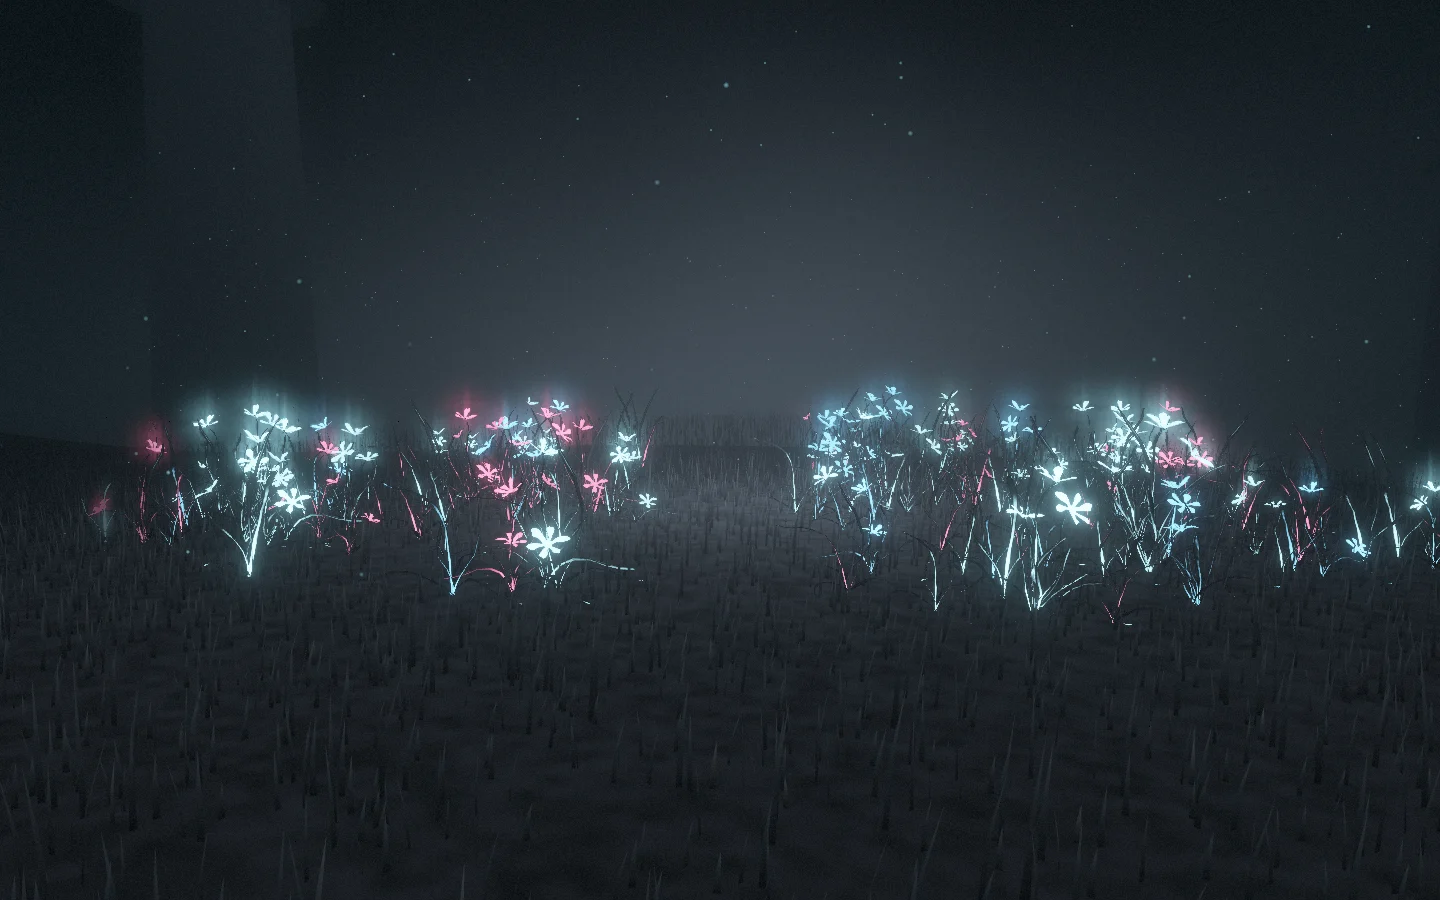
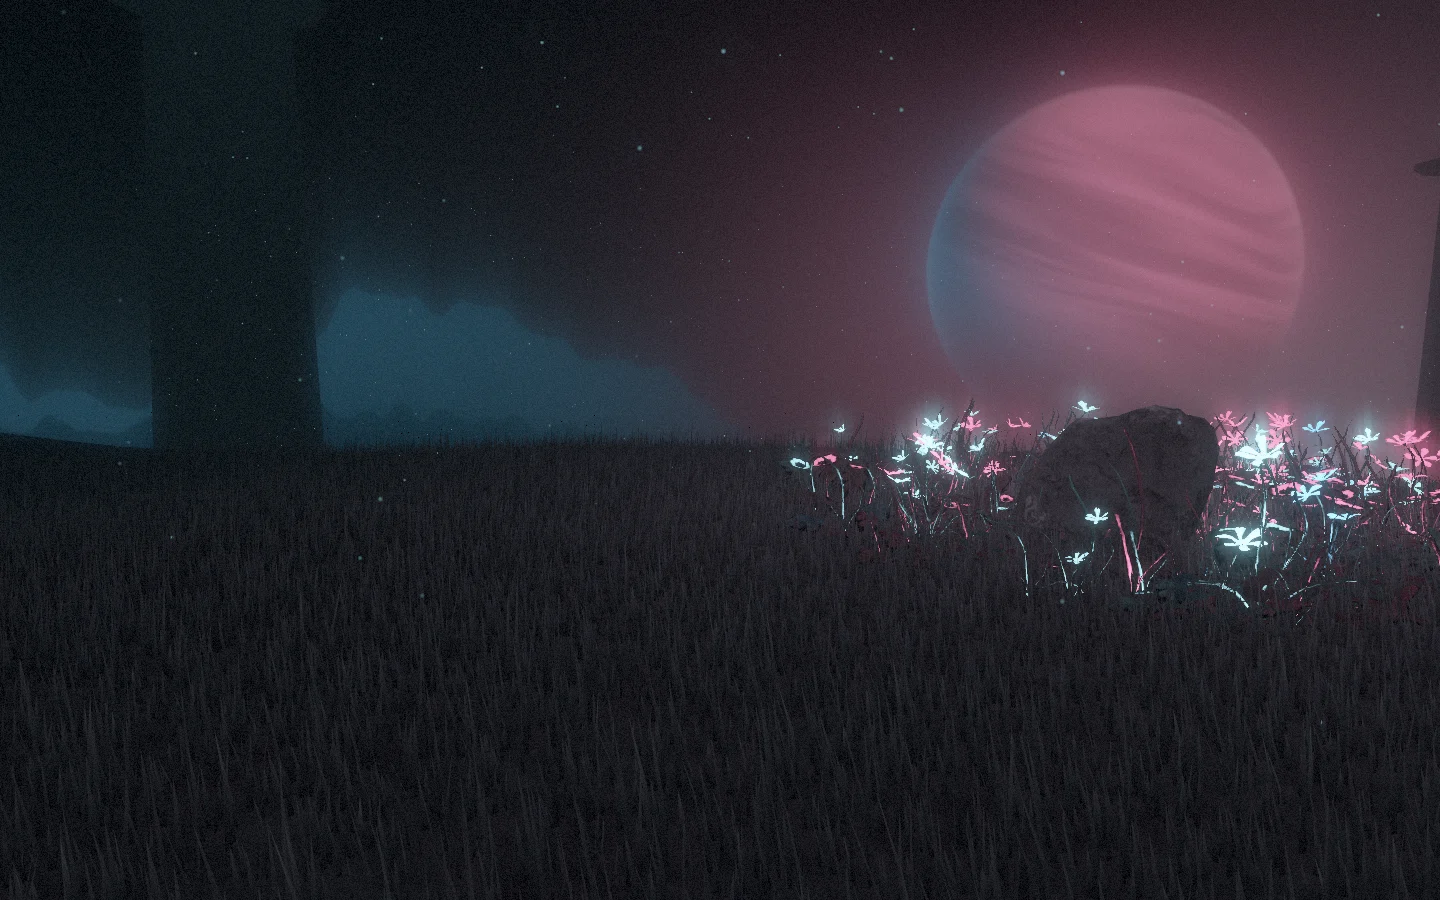
Fecha a rodada das placas: planeta com luz rosa e sombra azul, vidro mais barato, posters regerados e relatório

diff --git a/lib/scene/shaders/land.ts b/lib/scene/shaders/land.ts
@@ -84,20 +84,25 @@ void main() {
   color += pale * 0.12 * exp(-max(dir.y + 0.14, 0.0) * 7.0) * smoothstep(-0.12, 0.18, toward) * uAstro;
 
   // O planeta: uma esfera grande e distante, meio encoberta pelo horizonte.
-  // Sóbrio, das cores da indústria; a única coisa fria e clara nele é o fio de
-  // atmosfera na borda. A base some na névoa, como tudo que está longe.
+  // Duas luzes, as mesmas do céu em volta: o rosa de um lado e, do outro, o
+  // azul das serras e do fundo, que enche a sombra em vez de deixá-la chapada.
+  // A base some na névoa, como tudo que está longe.
   float away = acos(clamp(dot(dir, uAstroDir), -1.0, 1.0));
   float radius = uPlanet.y;
-  if (uPlanet.x > 0.001 && away < radius * 1.5) {
-    float disc = 1.0 - smoothstep(radius - 0.002, radius + 0.002, away);
-    // A normal da esfera vista de frente, para a luz vir de um lado só.
+  if (uPlanet.x > 0.001 && away < radius * 2.0) {
+    float disc = 1.0 - smoothstep(radius - 0.003, radius + 0.003, away);
+    // A normal da esfera vista de frente.
     vec3 side = normalize(cross(uAstroDir, vec3(0.0, 1.0, 0.0)));
     vec3 top = cross(side, uAstroDir);
     vec2 p = vec2(dot(dir, side), dot(dir, top)) / sin(radius);
     vec3 normal = vec3(p, sqrt(max(1.0 - dot(p, p), 0.0)));
-    vec3 sun = normalize(vec3(-0.72, 0.5, 0.3));
-    // O terminador: uma linha estreita entre o dia e a noite.
-    float lit = smoothstep(-0.03, 0.09, dot(normal, sun));
+    // A luz rosa vem de cima, à direita; a azul, de baixo, à esquerda. Nenhuma
+    // tem linha de sombra: uma vai cedendo para a outra ao longo da esfera.
+    vec3 sun = normalize(vec3(0.62, 0.55, 0.56));
+    vec3 sky = normalize(vec3(-0.8, -0.3, 0.52));
+    float lit = smoothstep(-0.3, 0.85, dot(normal, sun));
+    float fill = smoothstep(-0.2, 1.0, dot(normal, sky));
+    vec3 blue = uCyan * vec3(0.5, 0.78, 1.05);
 
     // As faixas: ruído esticado ao longo dos paralelos, num eixo inclinado,
     // girando tão devagar que só se nota de uma visita para a outra.
@@ -106,20 +111,24 @@ void main() {
     float bend = sceneNoise(vec3(lon * 1.3, q.y * 3.0, 7.0)) - 0.5;
     float bands = sceneNoise(vec3(lon * 0.5 + 4.0, (q.y + bend * 0.1) * 9.0, 2.0)) * 0.65
       + sceneNoise(vec3(lon * 1.7, (q.y + bend * 0.16) * 24.0, 5.0)) * 0.35;
+    float tone = 0.45 + 0.55 * smoothstep(0.2, 0.8, bands);
 
-    vec3 tone = mix(uDeep, mix(uTeal, uMist, 0.4), smoothstep(0.25, 0.8, bands));
-    vec3 day = tone * (0.28 + 0.44 * max(dot(normal, sun), 0.0)) * (0.55 + 0.45 * normal.z);
-    vec3 body = mix(color * 0.55, day, lit);
-    // A atmosfera: um fio frio na borda, mais claro do lado do dia.
-    vec3 cold = mix(uCyan, uMist, 0.55);
-    body += cold * 0.3 * pow(1.0 - normal.z, 5.0) * (0.1 + 0.9 * lit);
+    // A esfera escurece para a borda: é o que a faz ter volume.
+    float round = 0.5 + 0.5 * normal.z;
+    vec3 body = mix(uRose, uMist, 0.12) * tone * lit * round;
+    body += blue * (0.1 + 0.16 * tone) * fill * (1.0 - 0.75 * lit) * round;
+    // A atmosfera: um fio na borda, da cor da luz que bate ali.
+    float rim = pow(1.0 - normal.z, 4.0);
+    body += (mix(uRose, uMist, 0.45) * 0.55 * lit + blue * 0.5 * fill * (1.0 - lit)) * rim;
     // Está longe: o ar fica entre ele e a câmera.
-    body = mix(body, color, 0.2);
+    body = mix(body, color, 0.24);
     float sunk = smoothstep(-0.1, 0.06, dir.y) * uPlanet.x;
     color = mix(color, body, disc * sunk);
-    // E o mesmo fio logo fora da borda, do lado da luz.
-    float dayside = 0.15 + 0.85 * smoothstep(-0.2, 0.6, dot(normalize(p + 1e-5), normalize(sun.xy)));
-    color += cold * 0.1 * exp(-max(away - radius, 0.0) * 90.0) * (1.0 - disc) * dayside * sunk;
+    // O halo logo fora da borda: rosa do lado da luz, azul do outro, fino.
+    vec2 out2 = normalize(p + 1e-5);
+    float warmSide = smoothstep(-0.3, 0.8, dot(out2, normalize(sun.xy)));
+    float glow = exp(-max(away - radius, 0.0) * 34.0) * (1.0 - disc) * sunk;
+    color += (uRose * 0.16 * warmSide + blue * 0.07 * (1.0 - warmSide)) * glow;
   }
 
   // As serras ao longe, do lado oposto ao planeta: duas cristas frias, da cor

diff --git a/lib/scene/shaders/fog.ts b/lib/scene/shaders/fog.ts
@@ -110,14 +110,14 @@ vec3 floraScatter(vec3 worldPos) {
 }
 
 /**
- * O ar em volta do planeta no fim da trilha: um resto de rosa largo, cedendo
+ * O ar que o planeta acende no fim da trilha: rosa em volta dele, cedendo
  * para o ciano ao longo do horizonte. É a mesma cor no céu e na névoa distante
  * do terreno. uAstroDir é para onde o planeta fica (planetPlace, em rail.ts).
  */
 vec3 astroAir(vec3 dir) {
   float near = max(dot(dir, uAstroDir), 0.0);
   float low = exp(-abs(dir.y) * 5.5);
-  vec3 air = uRose * 0.012 * pow(near, 5.0);
+  vec3 air = uRose * (0.2 * pow(near, 26.0) + 0.012 * pow(near, 5.0));
   air += uCyan * 0.015 * pow(near, 1.5) * low;
   return air * uAstro;
 }

diff --git a/lib/scene/shaders/panel.ts b/lib/scene/shaders/panel.ts
@@ -92,7 +92,9 @@ void main() {
 
   // O que o vidro devolve: o ar ao longe na direção refletida e a flora que
   // está do lado de cá da placa. De frente quase nada; de esguelha, mais.
-  vec3 air = fogColorAt(120.0, vWorld + mirror * 120.0);
+  // O ar é a cor da névoa distante, sem o halo da flora ao longo do raio: o
+  // vidro cobre a placa inteira, e esse laço por pixel não se vê aqui.
+  vec3 air = mix(uAbyss, uDeep * 0.55, 0.6) + astroAir(mirror);
   vec3 flora = floraGlow(vWorld + mirror * 5.0);
   vec3 color = (air + flora * 0.08) * fresnel;
 

diff --git a/docs/RELATORIO-PLACAS.md b/docs/RELATORIO-PLACAS.md
@@ -1,0 +1,43 @@
+# Relatório — placas com corpo, planeta e peso (2026-10-10)
+
+**Feito.** As placas dos cases deixaram de ser um plano: moldura de chapa de 8 cm com chanfro e fila de parafusos, verso de chapa ondulada, vidro por cima da imagem (que fica 3 cm recuada, com brilho próprio constante), pórtico em perfil I com sapata de concreto. Uma porta de enrolar cobre cada placa, sobe quando a câmera chega e desce quando ela sai. No céu, o crescente rosa e a lua deram lugar a um planeta de faixas, visível na Introdução e no CTA. O link do case continua sobre o retângulo da imagem; nada mudou na navegação. Typecheck, lint, build e `measure` passam. Capturas em `.screens/planeta/placas/` (`antes-*` e `depois-*`).
+
+**Os números.**
+
+| | antes | depois | teto |
+|---|---:|---:|---:|
+| Draw calls, nível médio | 40 | 46 | 100 |
+| Triângulos, nível médio | 386.241 | 393.273 | 400.000 |
+| Tempo de quadro mediano | 16,7 ms | 16,7 ms | — |
+| JS da home / do case | — | 184,0 / 187,5 kB | 200 |
+| Chunk da cena | — | 168,5 kB | 350 |
+
+Draw calls e triângulos lidos em `?at=0.455&stats=1` a 760 px de largura. O tempo de quadro é a mediana do governador, em dev, num Chrome sem janela a 1440×900: fica preso ao vsync antes e depois. Em seis rodadas pareadas com e sem as placas, as doze ficaram no nível alto a 16,7 ms; com a máquina carregada (load 6) e 4,5× os pixels, as duas versões caem igualmente para o nível baixo. Não medi em build de produção nem em telefone. O JS de antes não foi medido nesta rodada.
+
+**Peso dos assets** (o que o site carrega, tudo depois do loading):
+
+| arquivo | fonte | final |
+|---|---:|---:|
+| `models/industria/porta.glb` | 2.341 kB | 193 kB |
+| `metal_plate_02` (cor, normal, arm 1k; altura 512) | 2.108 kB | 459 kB |
+| `concrete_wall_006` (512) | 3.308 kB | 171 kB |
+| `corrugated_iron_02` (512) | 2.211 kB | 33 kB |
+| `green_metal_rust` (512) | 797 kB | 16 kB |
+| loader de glTF + decodificador meshopt (chunk à parte, gzip) | — | 20 kB |
+
+**Decisões.**
+1. O material é o `MeshStandardMaterial` pedido, mas a cena não tem luz do three, mapa de ambiente nem `scene.fog`: `lib/scene/pbr.ts` liga nele a névoa e a luz da flora por `onBeforeCompile`. Cada mancha de flora entra como fonte larga, para o chanfro brilhar de raspão.
+2. A moldura usa `metal_plate_02`, não `metal_plate`: o losango do primeiro some à distância de leitura. A cor da fonte é ferrugem quente e lia como madeira; no script ela vira aço frio. A tinta verde e o concreto perderam metade da cor.
+3. O pórtico ganhou perfil I e chapa de base, além do material: montante quadrado com textura continuava lendo como poste.
+4. A imagem não saiu do lugar; a moldura cresce em volta e para a frente dela. É o que mantém o link e o encaixe na capa iguais.
+5. A câmera cruza o canto inferior esquerdo de cada placa ao sair da parada, como já fazia. Tudo é face única, então a travessia lê como antes. Não mexi na trilha.
+6. A porta ficou boa no teste e foi para as seis paradas. O modelo é uma malha só, sem animação: é separada por ilhas na carga e a cortina sobe no shader. Ela é mais escura e menos metálica que o modelo, que acendia como se emitisse. Meshopt quase não muda os 46 kB de geometria dela; o ganho veio do WebP e de tirar a cópia grafitada.
+7. O pórtico de estaleiro ficou de fora: simplificado com erro aceitável ainda tem 11,7 mil triângulos, e a folga do nível médio é de 6,7 mil.
+8. O planeta começou sóbrio, como no prompt, e mudou por pedido durante a rodada: voltou a luz rosa, a sombra perdeu a linha e o lado escuro recebe o azul das serras. "Ruído de as" chegou cortado; li como "faixas".
+9. O planeta muda de lugar com a proporção da tela: à direita numa tela larga, na borda direita e menor numa estreita, onde o lugar original fica fora do quadro. Ele some antes da primeira parada, para nunca ficar atrás de uma placa aberta.
+10. Texturas soltas foram para WebP com `sharp`; o `gltf-transform` só opera em glTF. Moldura em 1k, o resto em 512.
+11. No nível baixo: sem vidro, sem paralaxe, porta aberta e parada. Não há como forçar o nível pelo console; isto foi conferido no código e nas rodadas em que o governador rebaixou a cena.
+12. O commit inicial da rodada levou o trabalho pendente das sessões anteriores, menos as fontes pesadas (GLB e JPG do Poly Haven), que continuam fora do git.
+13. Os cinco posters do modo sem WebGL foram regerados. `og.jpg` não: é um quadro antigo do Impacto, sem receita registrada, e as placas não aparecem nele.
+
+**Depois.** No nível médio a linha de base já estava em 386 mil triângulos (o relatório anterior dizia 346 mil), e restam 6,7 mil. Na Introdução o planeta rosa é a coisa mais clara do quadro depois das flores e vaza no bloom por cima da tubulação; vale um olhar seu. Medir quadro em build de produção e num telefone. Foco por teclado no link com a porta fechada não foi testado por automação (o clique foi).
